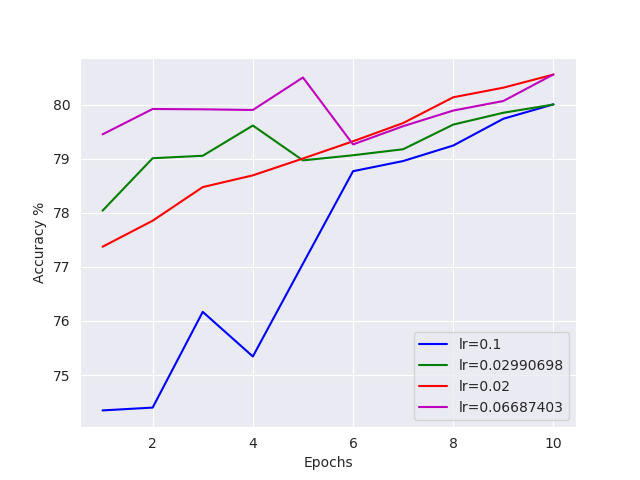
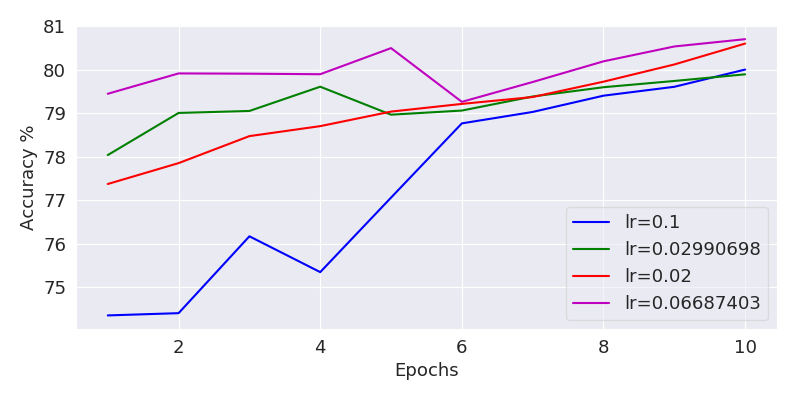
Accuracy On Validation Set

diff --git a/make_graph.py b/make_graph.py
@@ -25,15 +25,18 @@ for x in os.listdir(os.getcwd()):
 print(dicts)
 ls_10=np.linspace(1,10,num=10)
 sns.set_style("darkgrid")
-fig=plt.figure()
+fig=plt.figure(figsize=(8,4))
+plt.rcParams.update({"font.size": 13})
 ax=plt.subplot(111)
 ax.plot(ls_10,dicts['0.1'],'b',label='lr=0.1')
 ax.plot(ls_10,dicts['0.03'],'g',label='lr=0.02990698')
 ax.plot(ls_10,dicts['0.02'],'r',label='lr=0.02')
 ax.plot(ls_10,dicts['0.07'],'m',label='lr=0.06687403')
-ax.legend()
+ax.legend(fancybox=True, framealpha=.5)
+
 plt.xlabel("Epochs")
 plt.ylabel("Accuracy %")
+plt.tight_layout()
 plt.plot()
 plt.savefig("Learning_rate_2.png")
 
